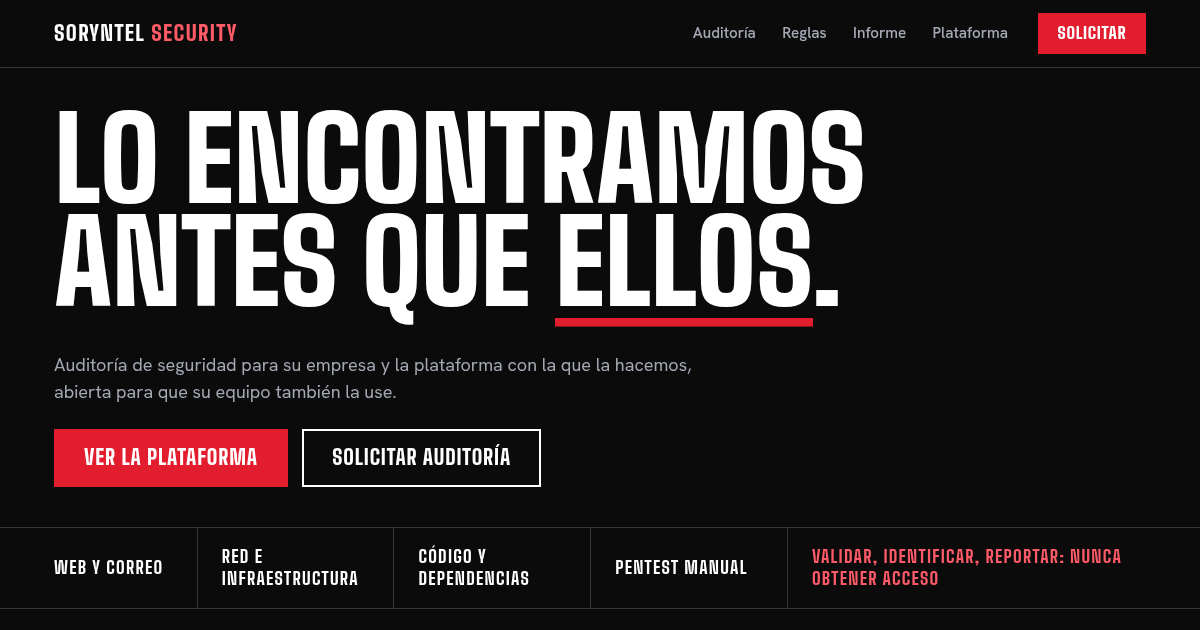
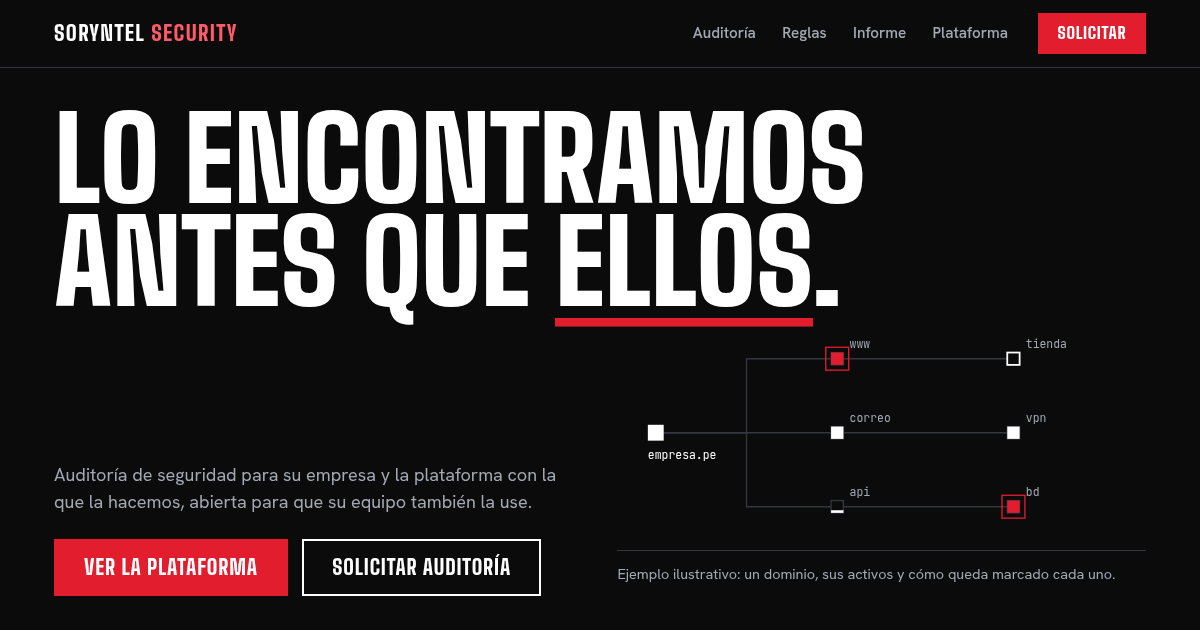
feat(web): add animated surface map to the hero
Vector illustration that draws a domain's assets, sweeps them and marks
each with its verification state; hovering or focusing an asset shows
what was found. Holds its final state under reduced motion.

diff --git a/web/src/components/surface-map.tsx b/web/src/components/surface-map.tsx
@@ -1,0 +1,91 @@
+"use client";
+
+import { useState } from "react";
+
+type Estado = "validado" | "hallazgo" | "potencial" | "manual";
+
+// Superficie de ejemplo: un dominio y los activos que cuelgan de él.
+const NODES: { id: string; x: number; y: number; estado: Estado; note: string }[] = [
+  { id: "www", x: 250, y: 36, estado: "hallazgo", note: "Listado de directorio habilitado · alta · validado" },
+  { id: "correo", x: 250, y: 120, estado: "validado", note: "DMARC con política p=none · media · validado" },
+  { id: "api", x: 250, y: 204, estado: "manual", note: "Control de acceso entre cuentas · revisión manual" },
+  { id: "tienda", x: 450, y: 36, estado: "potencial", note: "Versión con CVE en CISA KEV · alta · potencial" },
+  { id: "vpn", x: 450, y: 120, estado: "validado", note: "Sin hallazgos en lo evaluado" },
+  { id: "bd", x: 450, y: 204, estado: "hallazgo", note: "Base de datos accesible desde Internet · media · validado" },
+];
+
+const ROOT = { x: 44, y: 120 };
+const CYCLE = 12; // segundos
+const DEFAULT = "Ejemplo ilustrativo: un dominio, sus activos y cómo queda marcado cada uno.";
+
+/** Momento del ciclo en que la línea de barrido pasa por x. */
+const at = (x: number) => CYCLE * (0.14 + (0.3 * x) / 600);
+
+/**
+ * Ilustración animada de la portada: se trazan las conexiones, una línea barre
+ * la superficie y cada activo queda marcado con su estado. Al pasar el cursor
+ * o el foco por un activo, el pie dice qué se encontró.
+ */
+export function SurfaceMap() {
+  const [active, setActive] = useState<string | null>(null);
+  const current = NODES.find((n) => n.id === active);
+
+  return (
+    <figure className="mapa">
+      <svg viewBox="0 0 600 240" role="group" aria-label="Mapa de ejemplo de una superficie evaluada">
+        {/* Conexiones en codo desde el dominio hasta cada activo. */}
+        {NODES.map((n, i) => {
+          const from = n.x === 250 ? ROOT.x : 250;
+          const mid = from + (n.x - from) / 2;
+          const y0 = n.x === 250 ? ROOT.y : n.y;
+          return (
+            <path
+              key={n.id}
+              className="mapa-linea"
+              d={`M${from + 7} ${y0} H${mid} V${n.y} H${n.x - 7}`}
+              pathLength={1}
+              style={{ animationDelay: `${i * 0.12}s` }}
+              data-on={active === n.id || undefined}
+            />
+          );
+        })}
+
+        <line className="mapa-barrido" x1="0" y1="8" x2="0" y2="232" />
+
+        <g className="mapa-raiz">
+          <rect x={ROOT.x - 9} y={ROOT.y - 9} width="18" height="18" />
+          <text x={ROOT.x - 9} y={ROOT.y + 30}>
+            empresa.pe
+          </text>
+        </g>
+
+        {NODES.map((n) => (
+          <g
+            key={n.id}
+            className="mapa-nodo"
+            data-estado={n.estado}
+            data-on={active === n.id || undefined}
+            tabIndex={0}
+            role="img"
+            aria-label={`${n.id}: ${n.note}`}
+            onPointerEnter={() => setActive(n.id)}
+            onPointerLeave={() => setActive(null)}
+            onFocus={() => setActive(n.id)}
+            onBlur={() => setActive(null)}
+          >
+            <rect className="mapa-zona" x={n.x - 22} y={n.y - 30} width="110" height="52" />
+            <rect className="mapa-base" x={n.x - 7} y={n.y - 7} width="14" height="14" />
+            <g className="mapa-marca" style={{ animationDelay: `${at(n.x).toFixed(2)}s` }}>
+              {n.estado === "manual" ? <rect x={n.x - 7} y={n.y + 4} width="14" height="3" /> : <rect x={n.x - 7} y={n.y - 7} width="14" height="14" />}
+              {n.estado === "hallazgo" && <rect className="mapa-aro" x={n.x - 13} y={n.y - 13} width="26" height="26" />}
+            </g>
+            <text x={n.x + 14} y={n.y - 12}>
+              {n.id}
+            </text>
+          </g>
+        ))}
+      </svg>
+      <figcaption aria-live="polite">{current ? `${current.id} · ${current.note}` : DEFAULT}</figcaption>
+    </figure>
+  );
+}

diff --git a/web/src/app/globals.css b/web/src/app/globals.css
@@ -260,6 +260,174 @@ h1 {
   gap: 0.9rem;
 }
 
+.portada-fila {
+  display: grid;
+  grid-template-columns: minmax(0, 1fr) minmax(0, 1.05fr);
+  gap: clamp(2rem, 5vw, 5rem);
+  align-items: end;
+}
+
+/* ---------- Ilustración animada: mapa de superficie ---------- */
+
+.mapa svg {
+  display: block;
+  width: 100%;
+  height: auto;
+  overflow: visible;
+}
+
+.mapa figcaption {
+  margin-top: 0.75rem;
+  min-height: 3.2em;
+  padding-top: 0.75rem;
+  border-top: 1px solid var(--gris-linea);
+  font-size: 0.9rem;
+  color: var(--gris);
+}
+
+.mapa text {
+  font-family: var(--mono);
+  font-size: 13px;
+  fill: var(--gris);
+}
+
+.mapa-linea {
+  fill: none;
+  stroke: var(--gris-linea);
+  stroke-width: 1.5;
+  stroke-dasharray: 1;
+  animation: mapa-trazo 12s var(--suave) infinite backwards;
+}
+
+.mapa-linea[data-on] {
+  stroke: var(--blanco);
+}
+
+.mapa-raiz rect {
+  fill: var(--blanco);
+}
+
+.mapa-raiz text {
+  fill: var(--blanco);
+}
+
+.mapa-barrido {
+  stroke: var(--rojo);
+  stroke-width: 2;
+  animation: mapa-barrido 12s linear infinite backwards;
+}
+
+.mapa-nodo {
+  cursor: default;
+  outline: none;
+}
+
+.mapa-zona {
+  fill: transparent;
+}
+
+.mapa-base {
+  fill: var(--negro);
+  stroke: var(--gris-linea);
+  stroke-width: 1.5;
+}
+
+.mapa-marca {
+  animation: mapa-marca 12s steps(1, end) infinite backwards;
+}
+
+.mapa-marca rect {
+  fill: var(--blanco);
+}
+
+.mapa-nodo[data-estado="hallazgo"] .mapa-marca rect {
+  fill: var(--rojo);
+}
+
+.mapa-nodo[data-estado="potencial"] .mapa-marca rect {
+  fill: var(--negro);
+  stroke: var(--blanco);
+  stroke-width: 2;
+}
+
+.mapa-nodo[data-estado] .mapa-marca rect.mapa-aro {
+  fill: none;
+  stroke: var(--rojo);
+  stroke-width: 1.5;
+  transform-box: fill-box;
+  transform-origin: center;
+  animation: mapa-aro 2.4s var(--suave) infinite;
+}
+
+.mapa-nodo[data-on] text,
+.mapa-nodo:focus-visible text {
+  fill: var(--blanco);
+}
+
+.mapa-nodo:focus-visible .mapa-zona {
+  stroke: var(--blanco);
+  stroke-width: 2;
+}
+
+@keyframes mapa-trazo {
+  0% {
+    stroke-dashoffset: 1;
+  }
+  9%,
+  93% {
+    stroke-dashoffset: 0;
+    opacity: 1;
+  }
+  98%,
+  100% {
+    stroke-dashoffset: 0;
+    opacity: 0;
+  }
+}
+
+@keyframes mapa-barrido {
+  0%,
+  14% {
+    transform: translateX(0);
+    opacity: 0;
+  }
+  15% {
+    opacity: 1;
+  }
+  44% {
+    transform: translateX(600px);
+    opacity: 1;
+  }
+  46%,
+  100% {
+    transform: translateX(600px);
+    opacity: 0;
+  }
+}
+
+/* Cada marca arranca con su propio retraso, cuando el barrido pasa por su activo. */
+@keyframes mapa-marca {
+  0% {
+    opacity: 1;
+  }
+  78%,
+  100% {
+    opacity: 0;
+  }
+}
+
+@keyframes mapa-aro {
+  0% {
+    transform: scale(0.6);
+    opacity: 1;
+  }
+  70%,
+  100% {
+    transform: scale(1.5);
+    opacity: 0;
+  }
+}
+
 .banda {
   display: grid;
   grid-template-columns: repeat(4, minmax(0, 1fr)) minmax(0, 2.1fr);
@@ -998,6 +1166,14 @@ h3 {
 }
 
 @media (max-width: 760px) {
+  .portada-fila {
+    grid-template-columns: minmax(0, 1fr);
+  }
+
+  .mapa {
+    order: 2;
+  }
+
   .cabecera nav {
     display: none;
   }
@@ -1078,6 +1254,11 @@ h3 {
 @media (prefers-reduced-motion: reduce) {
   html {
     scroll-behavior: auto;
+  }
+
+  /* Sin movimiento, el mapa queda en su estado final: conexiones trazadas y activos marcados. */
+  .mapa-barrido {
+    display: none;
   }
 
   * {

diff --git a/web/src/app/page.tsx b/web/src/app/page.tsx
@@ -1,5 +1,6 @@
 import { Findings } from "@/components/findings";
 import { RequestForm } from "@/components/request-form";
+import { SurfaceMap } from "@/components/surface-map";
 import { CONTACT, DESCRIPTION, DOES, NEVER, PLATFORM, PLATFORM_VERSION, REPO_URL, RULE, SERVICES, SITE_URL, STEPS } from "@/content/site";
 
 const jsonLd = {
@@ -82,18 +83,23 @@ export default function Page() {
               Lo encontramos <br />
               antes que <span className="marca-roja">ellos</span>.
             </h1>
-            <p className="entrada">
-              Auditoría de seguridad para su empresa y la plataforma con la que la hacemos, abierta para que su equipo
-              también la use.
-            </p>
-            <p className="acciones">
-              <a href="#plataforma" className="boton boton-rojo">
-                Ver la plataforma
-              </a>
-              <a href="#solicitar" className="boton boton-linea">
-                Solicitar auditoría
-              </a>
-            </p>
+            <div className="portada-fila">
+              <div>
+                <p className="entrada">
+                  Auditoría de seguridad para su empresa y la plataforma con la que la hacemos, abierta para que su
+                  equipo también la use.
+                </p>
+                <p className="acciones">
+                  <a href="#plataforma" className="boton boton-rojo">
+                    Ver la plataforma
+                  </a>
+                  <a href="#solicitar" className="boton boton-linea">
+                    Solicitar auditoría
+                  </a>
+                </p>
+              </div>
+              <SurfaceMap />
+            </div>
           </div>
           <ul className="banda" aria-label="Qué auditamos y con qué regla">
             {SERVICES.map((s) => (
